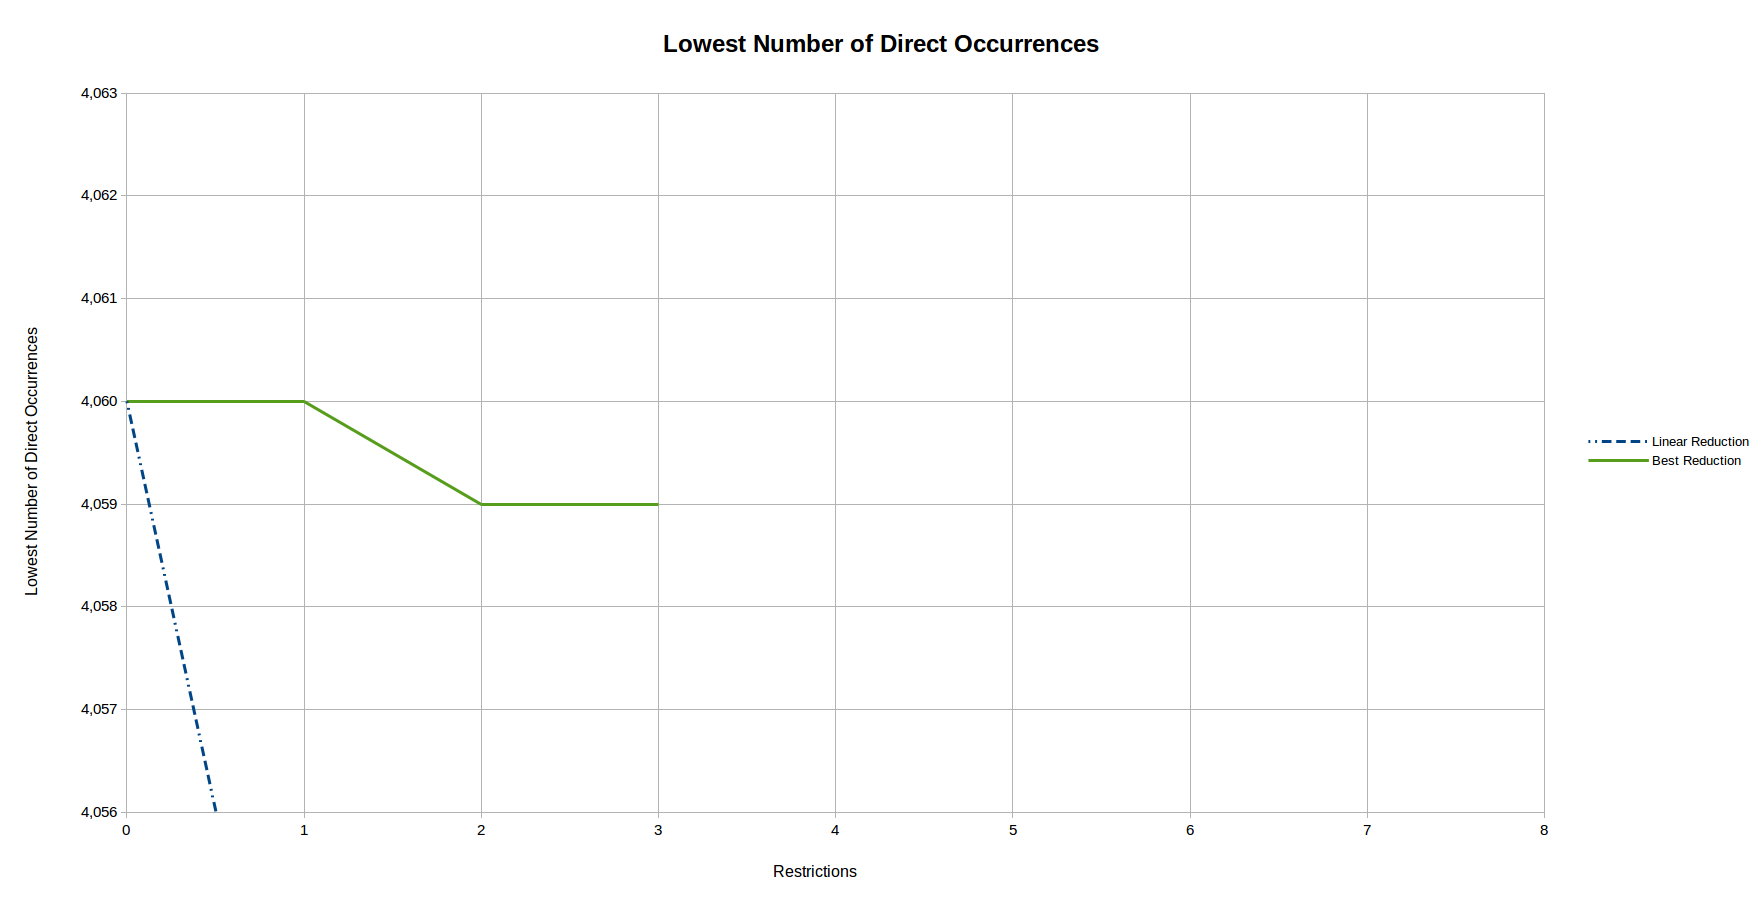
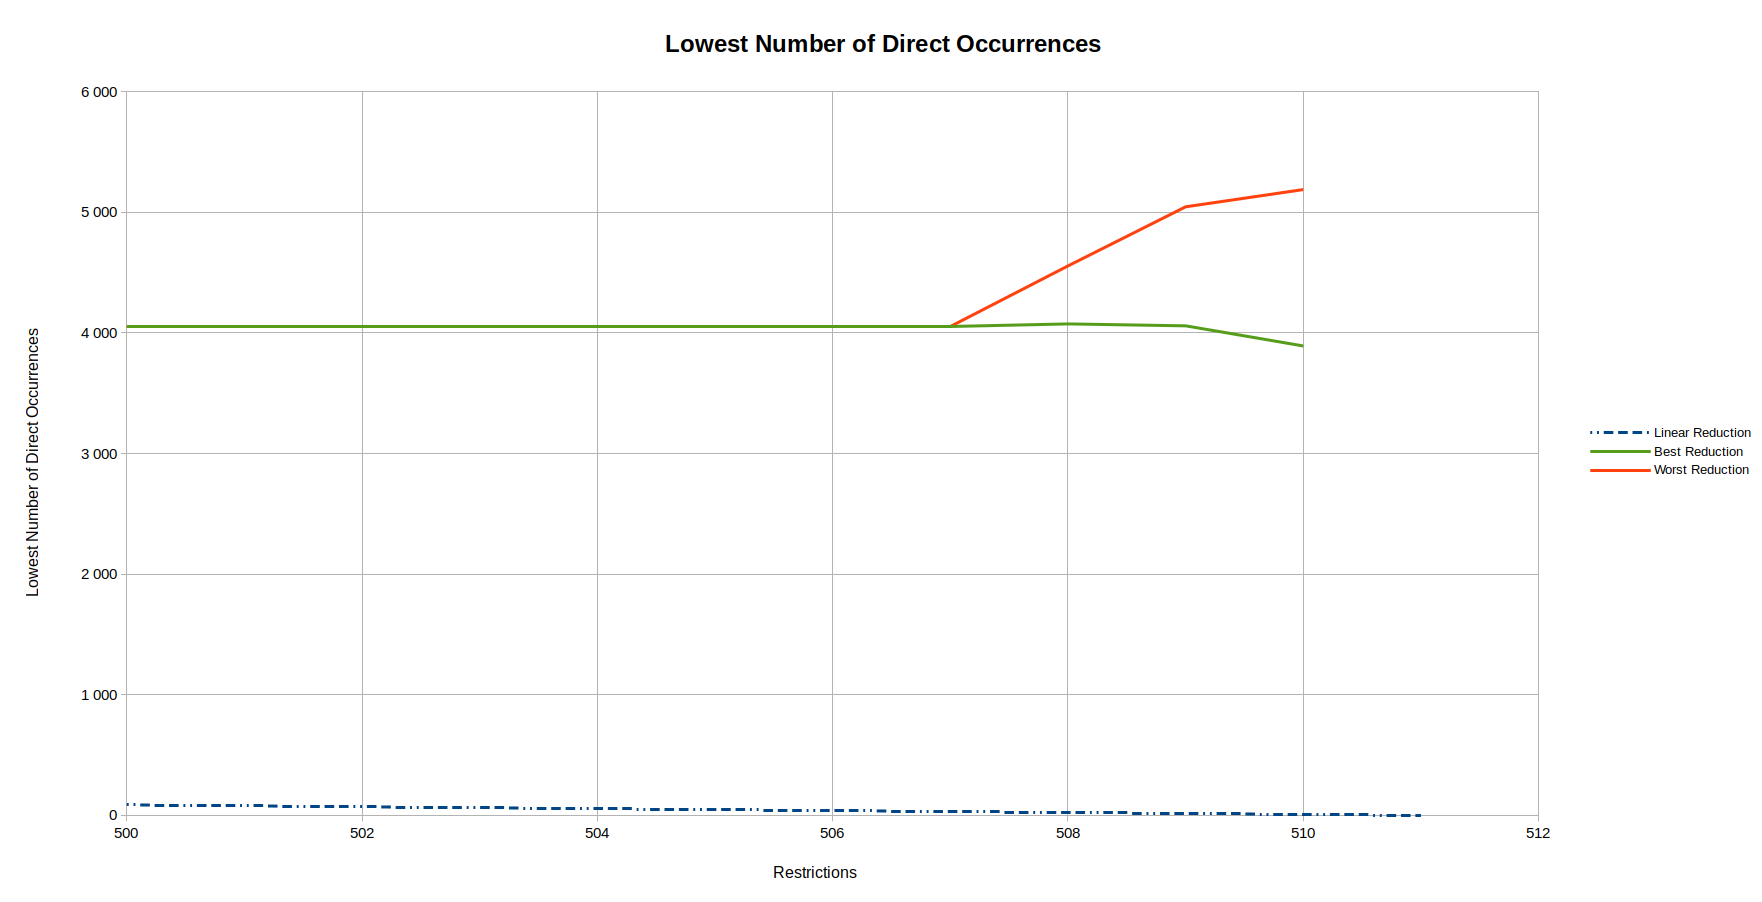
Updated the results for the number of direct occurrences

diff --git a/results/Overview.md b/results/Overview.md
@@ -43,11 +43,15 @@ value of 0 for 511 input bits fixed.
 
 Results better than the linear reduction are marked in bold.
 
-| Restrictions | Linear Reduction | Best Reduction | Best Restriction |
-|:------------:|:----------------:|:--------------:| ---------------- |
-|       0      | 4,060            | 4,060          | [Initial Situation](000/000.md) |
-|       1      | 4,052            | 4,060          | Many             |
-|       2      | 4,044            | (4,059)          | ([F511-F512](002/f511_f512.md)) |
+| Restrictions | Linear Reduction | Best Reduction | Worst Reduction |
+|:------------:|:----------------:|:--------------:|:---------------:|
+|       0      | 4,060            | 4,060          | 4,060           |
+|       1      | 4,052            | 4,060          | 4,060           |
+|      65      | 3,544            | 4,059          | 4,059           |
+|     507      |    32            | 4,054          | 4,054           |
+|     508      |    24            | 4,075          | 4,556           |
+|     509      |    16            | 4,059          | 5,046           |
+|     510      |     8            | 3,892          | 5,189           |
 
 ![Lowest Number of Direct Occurrences](Lowest_Number_of_Direct_Occurrences.png "Lowest Number of Direct Occurrences")
 
